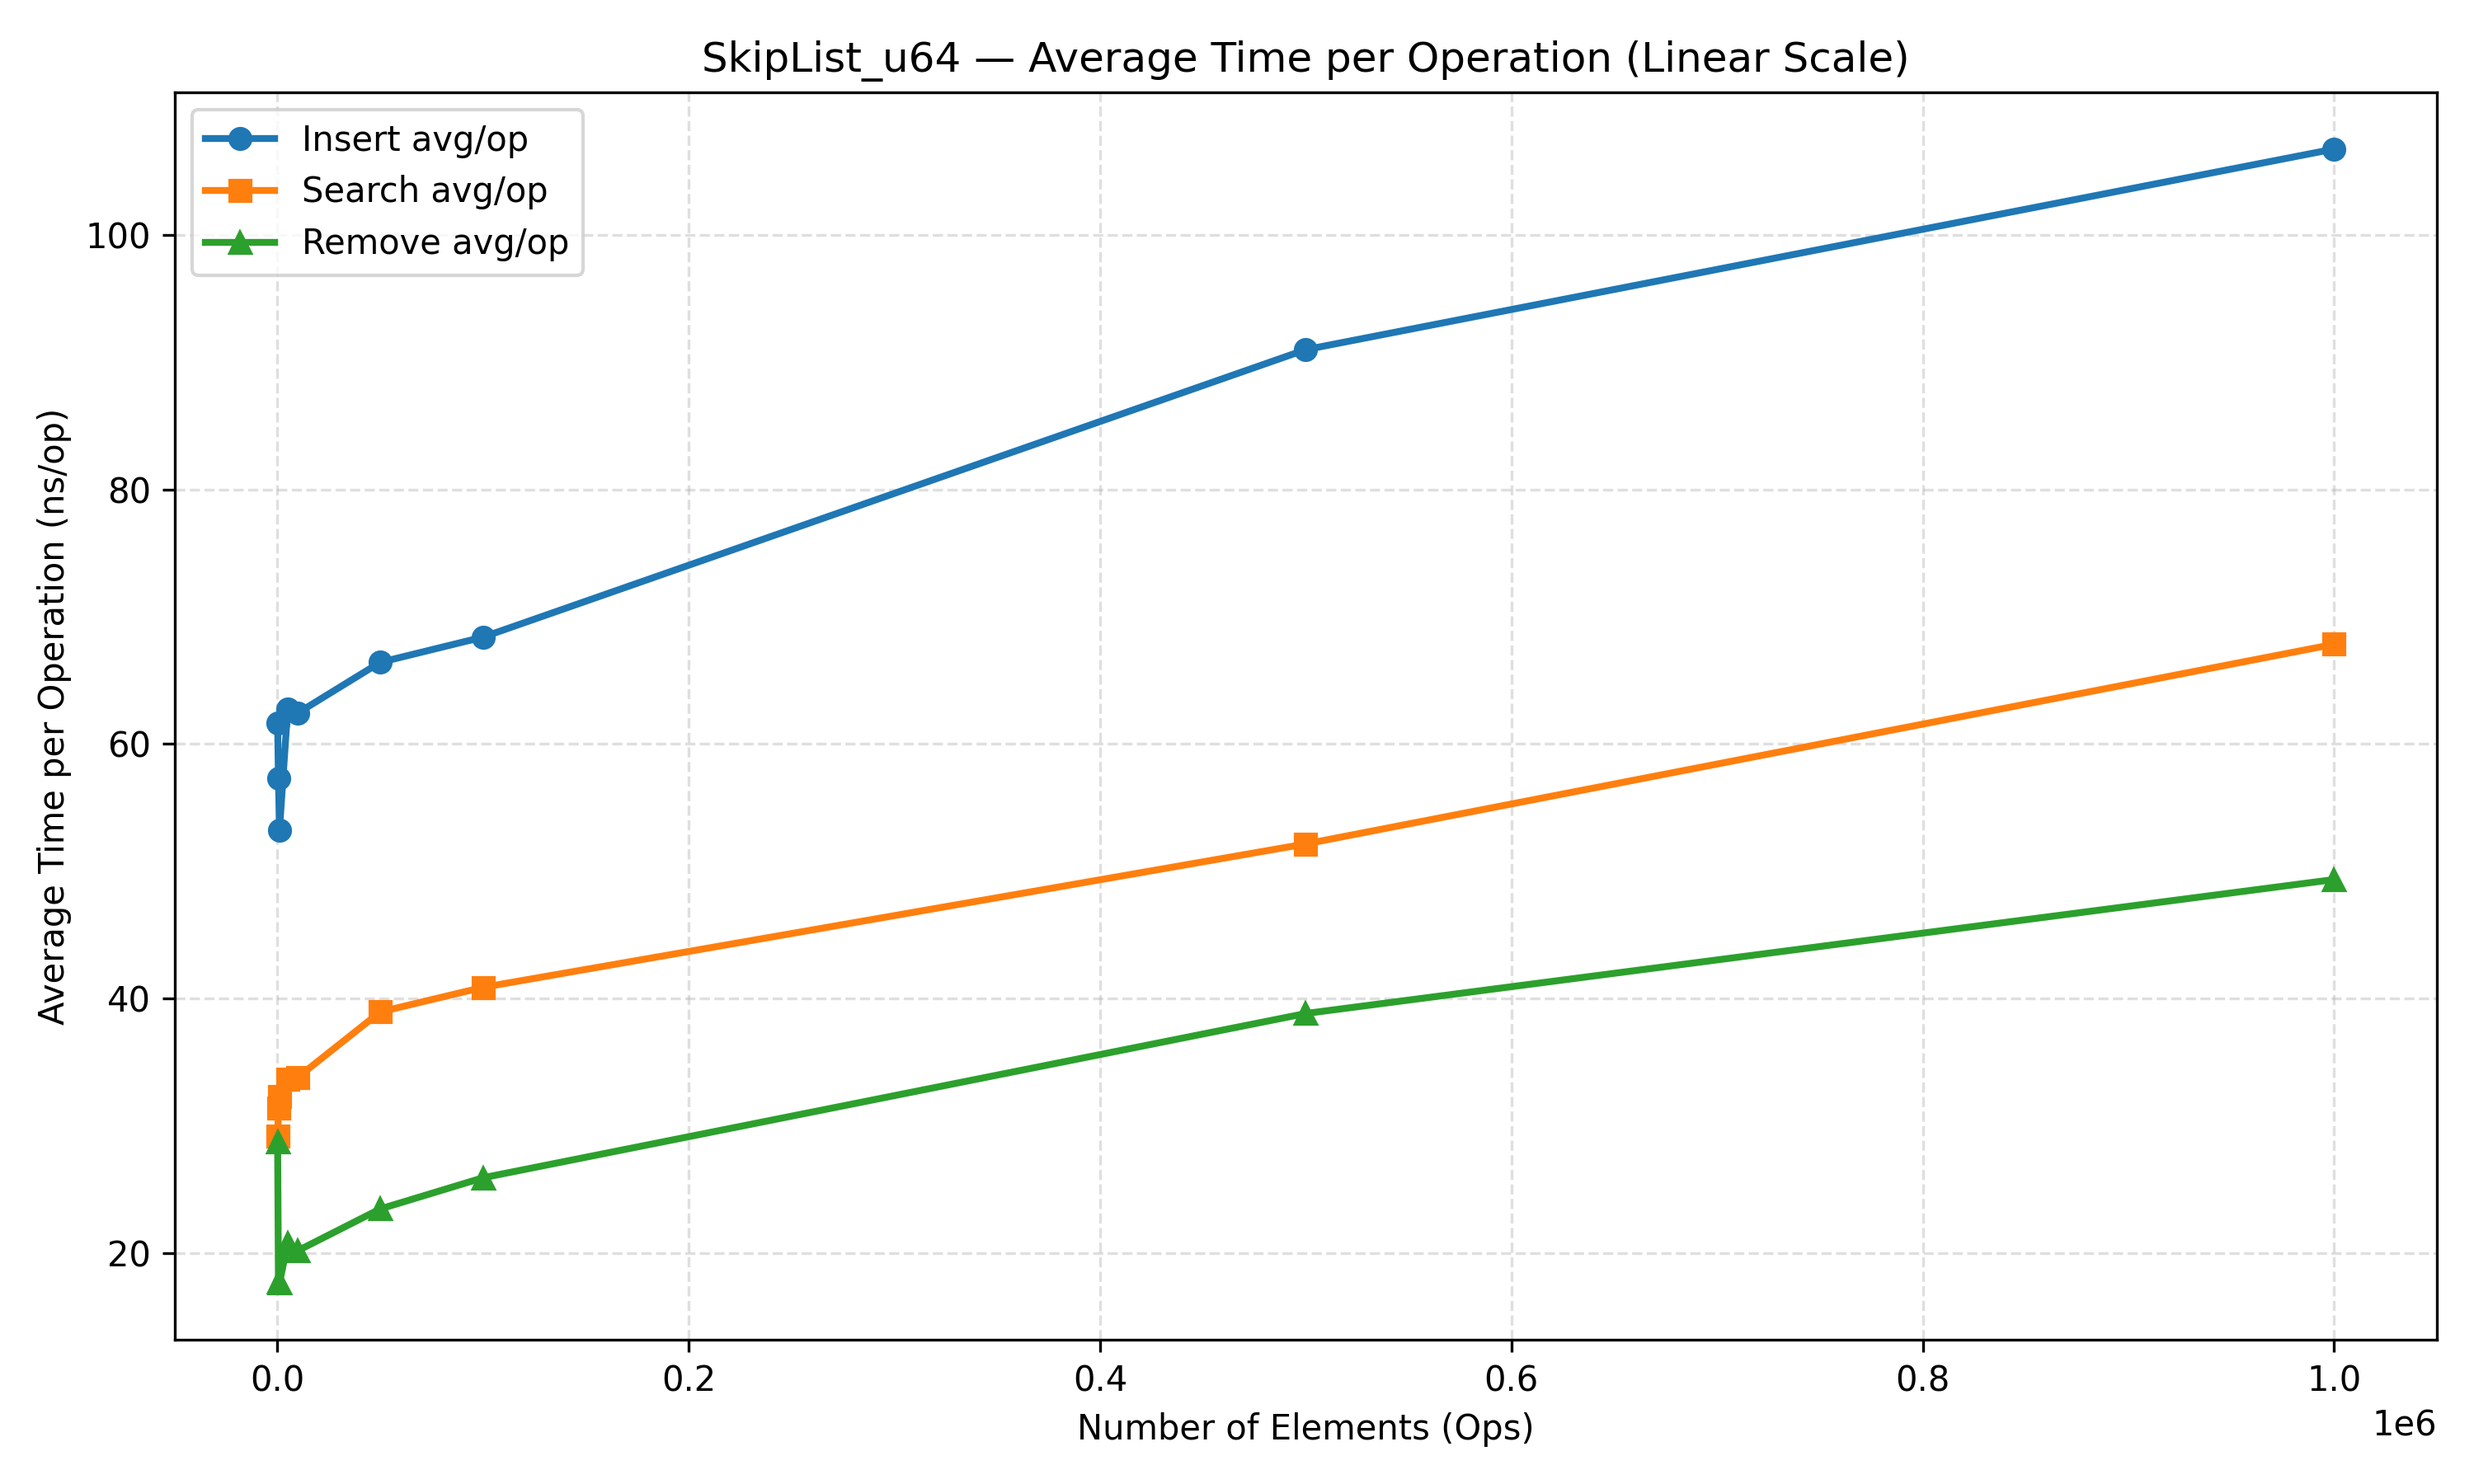
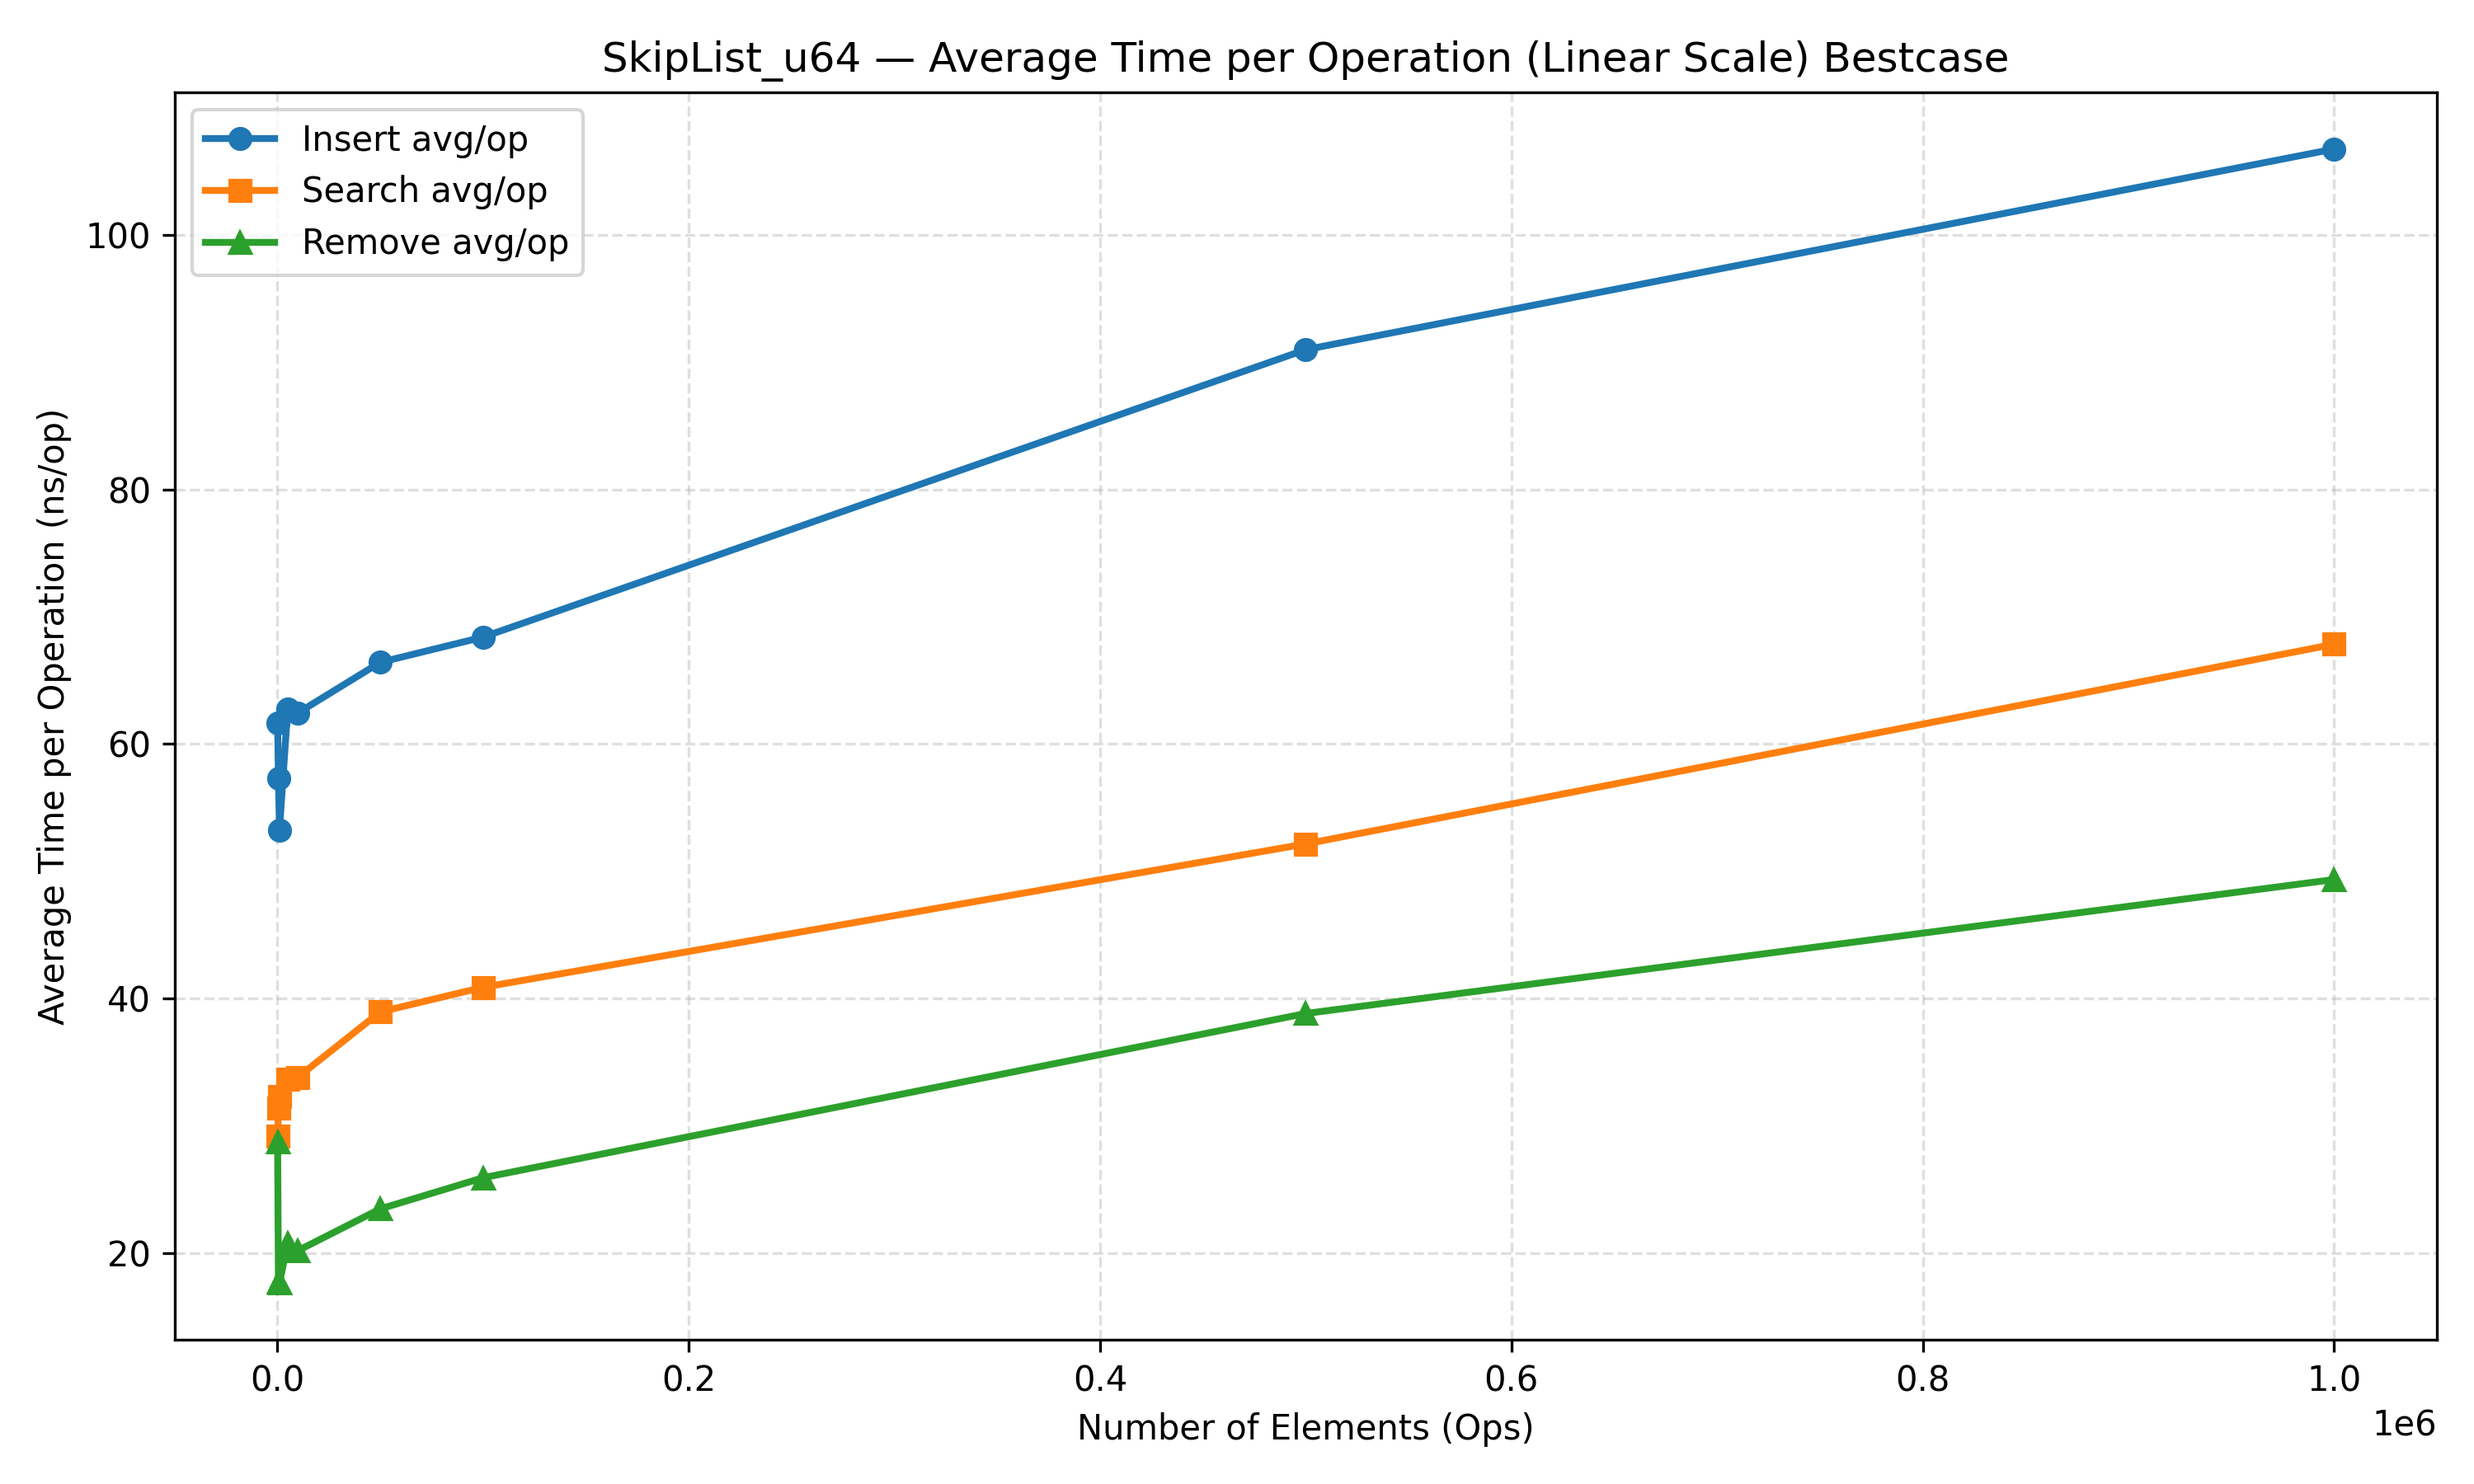
added more info to readme

Changed region(s): [[0.248, 0.0311, 0.806, 0.0622]]

diff --git a/README.md b/README.md
@@ -1,12 +1,225 @@
 # SkipList
-## A no dependency Skiplist/Map implemenation for C99
+## A no-dependency SkipList / Map implementation for C99 and C11
 
 ## Highlights
-* Supports almost all major c data types: u32,u64,int32,int64
-* Allows for user defined datatypes for keys and values using the macro provided generator
+* Supports all major C numeric types: int32_t, int64_t, uint32_t, and uint64_t
+* Macro generator for user-defined key/value types with optional cleanup hooks
 * Zero resource leaks
-* unit tests
-* C11 generics support
-* FOSS
+* Comprehensive unit tests and benchmark utilities
+* Optional C11 _Generic interface for ease of use
+* CMake build system
+* FOSS, licensed under LGPL-3.0
 
 ## Performance 
+Performance of the library has been tested in two ways. 
+1. **Realistic random workloads** — randomized insertion, search, and deletion, provided by the [benchmark program](test/main.c). 
+2. **Best-case scenarios** — head insertion/removal and sequential search
+
+All timings are in ns.
+### Realistic test results
+![avg time total ops](graphs/skiplist_avg_total_linear.png)
+![avg time total ops](graphs/skiplist_avg_total_loglog.png)
+![avg time per op](graphs/skiplist_avg_per_op_linear.png)
+![avg time per op](graphs/skiplist_avg_per_op_loglog.png)
+### Best case test results
+![avg time total ops](graphs/skiplist_avg_total_linear_bestcase.png)
+![avg time total ops](graphs/skiplist_avg_total_loglog_bestcase.png)
+![avg time per op](graphs/skiplist_avg_per_op_linear_bestcase.png)
+![avg time per op](graphs/skiplist_avg_per_op_loglog_bestcase.png)
+
+
+## List interface
+ipLists represent ordered sets — no duplicate keys are allowed.
+Each typed variant (`i32`, `u32`, `i64`, `u64`) exposes identical APIs differing only by type. \
+### Example (i32)
+```c
+SkipList_i32* skipList_i32_create(void);
+bool     skipList_i32_insert (SkipList_i32 *list, int32_t id);
+void     skipList_i32_remove (SkipList_i32 *list, int32_t id);
+bool     skipList_i32_search (SkipList_i32 *list, int32_t search_id);
+uint32_t skipList_i32_getSize(const SkipList_i32 *list);
+bool     skipList_i32_isEmpty(const SkipList_i32 *list);
+void     skipList_i32_destroy(SkipList_i32 **list);
+void     skipList_i32_print  (SkipList_i32 *list);
+```
+### Notes
+* Insertion and search are O(log(n)) expected on average
+* Duplicate insertions will return `false`
+* `destroy()` will internally release all internal nodes, freeing and destroying the list, and will set the user provided pointer to null preventing use after free.
+* `print()` provided debug util for visualizing the list at its current state 
+
+**Equivalent** APIs exist for:
+* `SkipList_u32`, `SkipList_i64`, and `SkipList_u64`
+### Example usage
+```c
+SkipList_u64 *list = skipList_u64_create();
+skipList_u64_insert(list, 42);
+bool found = skipList_u64_search(list, 42);
+skipList_u64_destroy(&list);
+```
+## Map interface
+**SkipMaps** extend SkipLists by storing key–value pairs, maintaining sorted order by key.
+## Example (i32)
+```c
+SkipMap_i32* skipMap_i32_create(void);
+bool   skipMap_i32_put     (SkipMap_i32 *sm, int32_t id, void *data);
+void*  skipMap_i32_get     (SkipMap_i32 *sm, int32_t id);
+void*  skipMap_i32_remove  (SkipMap_i32 *sm, int32_t id);
+bool   skipMap_i32_contains(SkipMap_i32 *sm, int32_t id);
+void   skipMap_i32_destroy (SkipMap_i32 **sm);
+void   skipMap_i32_print   (SkipMap_i32 *sm);
+```
+### Notes
+* Keys are stored in sorted ascending order
+* Duplicate insertions will update existing entry ( **note** for **pointer** types this is not recommend as the pointer will **leak**)
+* `remove()` returns the associated data pointer for user cleanup
+* `destroy()` free all nodes and calls free on associated value type (note do not call this if the values in the map are not heap allocation)  
+
+**Equivalent** APIs exist for:
+* `SkipMap_u32`, `SkipMap_i64`, and `SkipMap_u64`
+
+### Example 
+```c
+SkipMap_u64 *map = skipMap_u64_create();
+skipMap_u64_put(map, 1001, some_ptr);
+void *value = skipMap_u64_get(map, 1001);
+skipMap_u64_destroy(&map);
+```
+## C11 Generics
+When compiled with C11 or newer, a unified `_Generic` wrapper provides automatic type dispatching at compile time.
+
+### Example
+```c
+#include<skiplist.h>
+
+int main(){
+    auto list_i = skipList_create((int32_t)0);
+    auto list_u = skipList_create((uint64_t)0);
+    skipList_insert(list_i, 42);
+    skipList_insert(list_u, 999);
+
+    if (skipList_search(list_i, 42))
+        printf("Found 42!\n");
+
+    skipList_destroy(&list_i);
+    skipList_destroy(&list_u);
+}
+```
+This resolves to the correct typed functions (e.g. `skipList_i32_insert`, `skipList_u64_insert`) at **compile** time, with no runtime overhead.
+
+
+## Provided Generics Macro for user defined data types and keys
+
+### Example Generic Macro For List type
+
+```c
+
+// ================================
+// Complex key type: 2D coordinate
+// ================================
+typedef struct {
+    int x;
+    int y;
+} Point;
+
+#define CMP_POINT_XY(a, b) ({                     \
+    const Point *pa__ = (const Point*)(a);        \
+    const Point *pb__ = (const Point*)(b);        \
+    int dx__ = (pa__->x > pb__->x) - (pa__->x < pb__->x); \
+    dx__ != 0 ? dx__ :                            \
+    ( (pa__->y > pb__->y) - (pa__->y < pb__->y) );\
+})
+
+static inline void free_point(Point * ptr){
+    if(!ptr)return;
+    printf("freeing point (%d,%d)\n", ptr->x,ptr->y);
+    free(ptr);
+}
+
+DEFINE_GENERIC_SKIPLIST(SL_Point, Point*, CMP_POINT_XY, free_point)
+
+....
+
+// Sentinel (unused but required)
+Point *sentinel = malloc(sizeof(Point));
+sentinel->x = 0;
+sentinel->y = 0;
+
+// Create skiplist
+SkipList_SL_Point *sl = SkipList_SL_Point_create(sentinel);
+Point *p = malloc(sizeof(Point));
+p->x = 1;
+p->y = 2;
+bool inserted = SkipList_SL_Point_insert(sl, p);
+....
+SkipList_SL_Point_destroy(&sl);
+```
+
+| Parameter        | Description                           |
+| ---------------- | ------------------------------------- |
+| `NAME`           | Suffix for type names                 |
+| `KEY_TYPE`       | Type of the key                       |
+| `COMP_FUNC`      | Comparison function used for ordering |
+| `ON_REMOVE_KEY`  | Optional cleanup for key              |
+
+
+### Example Generic Macro For Map type
+
+
+```c
+// ====== Complex Data Example ======
+typedef struct {
+    double radius;
+    char *label; // dynamically allocated label to test cleanup
+} Circle;
+
+// Comparison by radius (ascending)
+#define CIRCLE_CMP(a,b) (((a).radius > (b).radius) - ((a).radius < (b).radius))
+
+// On remove: free the label
+static inline void free_circle_data(Circle c) {
+    printf("cleaning up circle %s\n",c.label);
+    if (c.label) {
+        free(c.label);
+        c.label = NULL;
+    }
+}
+
+static inline void notify_key_remove_func(Circle c){
+    printf("circle with radius key %lf is being removed\n",c.radius);
+}
+
+// Instantiate a generic SkipMap for Circle keys and Circle data
+DEFINE_GENERIC_SKIPMAP(SM_Circle, Circle, Circle, CIRCLE_CMP, notify_key_remove_func, free_circle_data)
+
+...
+
+// Create map with sentinel key and value
+Circle sentinel = { .radius = 0.0, .label = NULL };
+SkipMap_SM_Circle *sm = SkipMap_SM_Circle_create(sentinel, sentinel);
+Circle key = { .radius = 1.0, .label = NULL };
+Circle data = {
+    .radius = 1.0,
+    .label = malloc(32)
+};
+snprintf(data.label, 32, "Circle_%d", i + 1);
+SkipMap_SM_Circle_put(sm, key, data)
+
+...
+
+SkipMap_SM_Circle_Remove(&((Circle){.radius = 1.0, .label = NULL}))
+```
+| Parameter        | Description                           |
+| ---------------- | ------------------------------------- |
+| `NAME`           | Suffix for type names                 |
+| `KEY_TYPE`       | Type of the key                       |
+| `DATA_TYPE`      | Type of the stored data               |
+| `COMP_FUNC`      | Comparison function used for ordering |
+| `ON_REMOVE_KEY`  | Optional cleanup for key              |
+| `ON_REMOVE_DATA` | Optional cleanup for data             |
+
+
+## License
+This project is licensed under the GNU Lesser General Public License v3.0 (LGPL-3.0-only).
+You are free to use, modify, and redistribute under the terms of the license.
+See LICENSE for full details.
